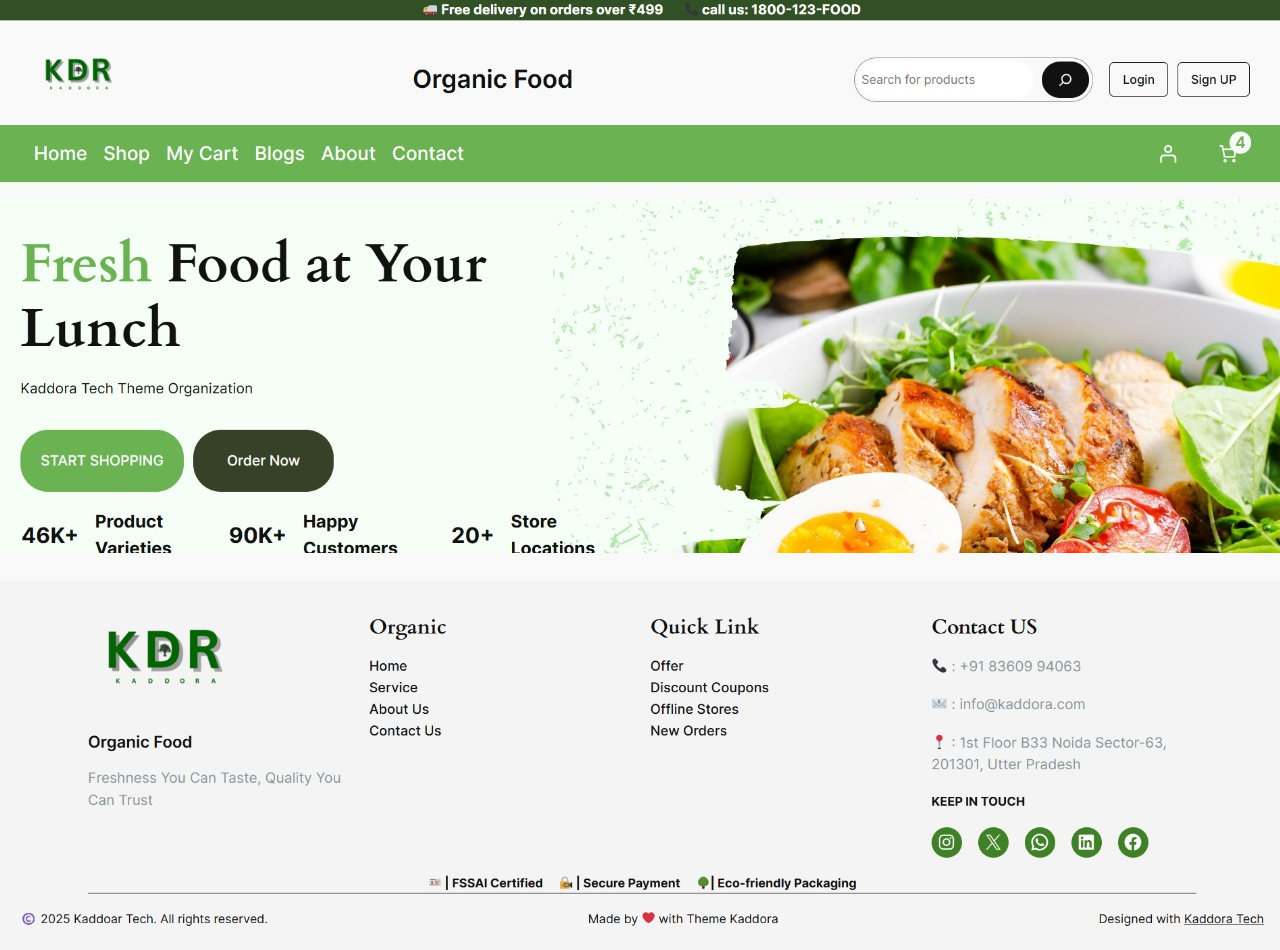
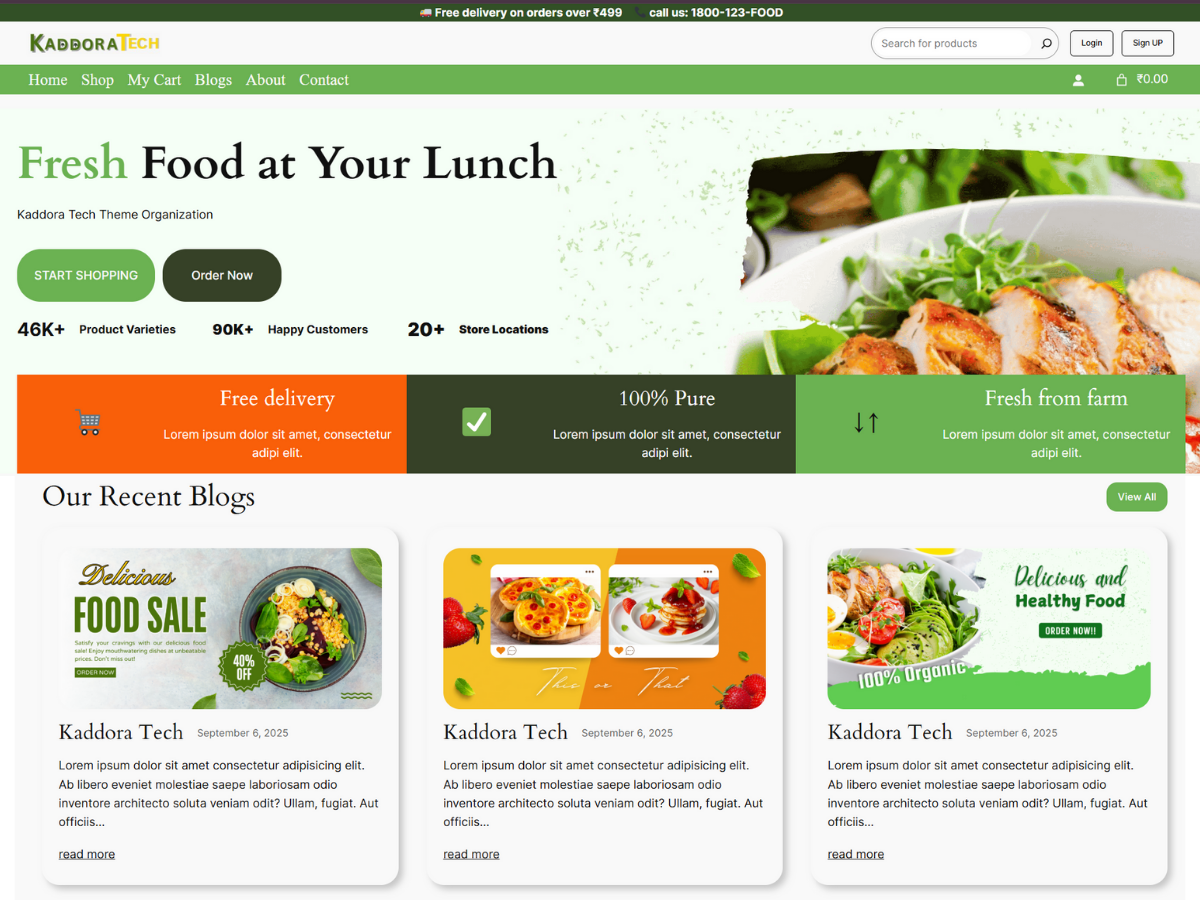
add custom page and improve header

diff --git a/assets/css/button-style.css b/assets/css/button-style.css
@@ -11,3 +11,79 @@
   width: 20px; /* adjust size */
   height: 20px;
 }
+
+/* Reduce search bar height */
+.wp-block-search__input {
+  height: 35px;
+  padding: 4px 10px;
+  font-size: 14px;
+  line-height: 1.2;
+  transition: all 0.3s ease;
+}
+
+/* Input hover/focus effect – green glow */
+.wp-block-search__input:hover,
+.wp-block-search__input:focus {
+  background-color: #f5f5f5;   /* light grey background */
+  outline: none;
+  box-shadow: 0 0 6px 2px #28a745; /* green glow */
+  border-color: #28a745;          /* green border */
+}
+
+/* Reduce height of the search button */
+.wp-block-search__button {
+  height: 35px;
+  padding: 4px 12px;
+  font-size: 14px;
+  background-color: #0073aa;
+  color: #fff;
+  border: none;
+  transition: all 0.3s ease;
+  cursor: pointer;
+}
+
+/* Button hover effect – green glow */
+.wp-block-search__button:hover {
+  background-color: #0073aa; /* keep same base */
+  color: #fff;
+  box-shadow: 0 0 6px 2px #28a745; /* green glow on hover */
+  transform: translateY(-2px);     /* slight lift effect */
+}
+
+
+
+
+/* Reset link styles inside navigation */
+.wp-block-navigation a {
+  color: #ffffff;              /* keep white text */
+  text-decoration: none;       /* remove underline by default */
+  outline: none;               /* remove browser focus outline */
+  box-shadow: none;            /* remove any box highlight */
+  transition: color 0.3s ease, text-decoration-color 0.3s ease;
+}
+
+/* Remove default :focus/active box */
+.wp-block-navigation a:focus,
+.wp-block-navigation a:active {
+  outline: none;
+  box-shadow: none;
+}
+
+/* Add pink underline on hover */
+.wp-block-navigation a:hover {
+  text-decoration: underline;         /* show underline */
+  text-decoration-color: #FFD700;     /* pink color for underline */
+  color: #ffffff;                     /* keep text white on hover */
+  text-underline-offset: 6px;
+  text-decoration-thickness: 5px;
+}
+
+/* Active / current menu item style */
+.wp-block-navigation .current-menu-item > a,
+.wp-block-navigation .wp-block-navigation-item__current-menu-item > a {
+  color: #FFD700; /* change text to yellow */
+  text-decoration: underline; /* show underline */
+  text-decoration-color: #FFD700;
+  text-underline-offset: 6px;
+  text-decoration-thickness: 5px;
+}

diff --git a/style.css b/style.css
@@ -1,10 +1,10 @@
 /*
-Theme Name: Kaddora Organic Block Theme
+Theme Name: Kaddora FarmFresh – Organic Food & WooCommerce WordPress Theme
 Theme URI: https://organic.kaddora.com/
 Author: Kaddora Tech
 Author URI: https://kaddora.com/
-Description: Kaddora Organic Block Theme is a clean, modern, and fully responsive WordPress block theme designed for organic shops, grocery stores, eco-friendly brands, and food-related businesses. Built entirely for Full Site Editing (FSE) with Gutenberg, it lets you visually customize headers, footers, templates, and patterns without writing code. The theme integrates seamlessly with WooCommerce for product listings and uses minimal, fast-loading code with accessible color contrast and typography. Perfect for showcasing products, blogging about healthy living, and building an online shop with ease.
-Version: 3.0
+Description: Kaddora FarmFresh – Organic Food & WooCommerce WordPress Theme is a clean, modern, and fully responsive WordPress block theme designed for organic shops, grocery stores, eco-friendly brands, and food-related businesses. Built entirely for Full Site Editing (FSE) with Gutenberg, it lets you visually customize headers, footers, templates, and patterns without writing code. The theme integrates seamlessly with WooCommerce for product listings and uses minimal, fast-loading code with accessible color contrast and typography. Perfect for showcasing products, blogging about healthy living, and building an online shop with ease.
+Version: 1.8.5
 Requires at least: 6.0
 Tested up to: 6.8
 Requires PHP: 7.4

diff --git a/patterns/header.php b/patterns/header.php
@@ -5,7 +5,7 @@
  * Categories: header
  */
 ?>
-<!-- wp:group {"className":"kaddora-header","layout":{"type":"default"}} -->
+<!-- wp:group {"className":"kaddora-header","style":{"spacing":{"blockGap":"0.5rem"}},"layout":{"type":"default"}} -->
 <div class="wp-block-group kaddora-header"><!-- wp:group {"className":"top-bar","style":{"spacing":{"blockGap":"var:preset|spacing|10","margin":{"top":"0","bottom":"0"}},"color":{"background":"#325026"},"elements":{"link":{"color":{"text":"var:preset|color|base-2"}}},"typography":{"fontSize":"1rem"}},"textColor":"base-2","layout":{"type":"flex","orientation":"horizontal","justifyContent":"center","flexWrap":"wrap"}} -->
 <div id="top-bar" class="wp-block-group top-bar has-base-2-color has-text-color has-background has-link-color" style="background-color:#325026;margin-top:0;margin-bottom:0;font-size:1rem"><!-- wp:paragraph {"align":"center","style":{"layout":{"selfStretch":"fit"}}} -->
 <p class="has-text-align-center"><strong>🚚 Free delivery on orders over ₹499</strong></p>
@@ -18,30 +18,26 @@
 
 <!-- wp:group {"className":"header-main","style":{"spacing":{"padding":{"top":"0","left":"var:preset|spacing|30","right":"var:preset|spacing|30"}}},"layout":{"type":"flex","flexWrap":"wrap","justifyContent":"space-between","orientation":"horizontal"}} -->
 <div class="wp-block-group header-main" style="padding-top:0;padding-right:var(--wp--preset--spacing--30);padding-left:var(--wp--preset--spacing--30)"><!-- wp:group {"className":"site-identity","layout":{"type":"flex","flexWrap":"nowrap","justifyContent":"center"}} -->
-<div class="wp-block-group site-identity"><!-- wp:site-logo {"width":68} /-->
-
-<!-- wp:heading {"textAlign":"center","style":{"color":{"text":"#417c29"},"elements":{"link":{"color":{"text":"#417c29"}}}}} -->
-<h2 class="wp-block-heading has-text-align-center has-text-color has-link-color" style="color:#417c29"><strong>Kaddora TecH</strong></h2>
-<!-- /wp:heading --></div>
+<div class="wp-block-group site-identity"><!-- wp:site-logo {"width":185} /--></div>
 <!-- /wp:group -->
 
-<!-- wp:group {"className":"search-actions","layout":{"type":"flex","flexWrap":"wrap","justifyContent":"center"}} -->
-<div class="wp-block-group search-actions"><!-- wp:search {"label":"Search","showLabel":false,"placeholder":"Search for products","width":100,"widthUnit":"%","buttonText":"Search","buttonPosition":"button-inside","buttonUseIcon":true,"style":{"border":{"radius":"25px"}}} /-->
+<!-- wp:group {"className":"search-actions","style":{"dimensions":{"minHeight":""},"spacing":{"padding":{"top":"0","bottom":"0"},"margin":{"top":"0","bottom":"0"},"blockGap":"var:preset|spacing|10"}},"fontSize":"medium","layout":{"type":"flex","flexWrap":"wrap","justifyContent":"center"}} -->
+<div class="wp-block-group search-actions has-medium-font-size" style="margin-top:0;margin-bottom:0;padding-top:0;padding-bottom:0"><!-- wp:search {"label":"Search","showLabel":false,"placeholder":"Search for products","width":100,"widthUnit":"%","buttonText":"Search","buttonPosition":"button-inside","buttonUseIcon":true,"style":{"border":{"radius":"25px"},"typography":{"fontSize":"0.9rem"},"layout":{"selfStretch":"fit","flexSize":null}}} /-->
 
-<!-- wp:buttons {"layout":{"type":"flex","orientation":"horizontal","justifyContent":"left"}} -->
-<div class="wp-block-buttons"><!-- wp:button {"textAlign":"center","className":"is-style-outline"} -->
-<div class="wp-block-button is-style-outline"><a class="wp-block-button__link has-text-align-center wp-element-button">Login</a></div>
+<!-- wp:buttons {"style":{"typography":{"fontSize":"0.5rem"}},"layout":{"type":"flex","orientation":"horizontal","justifyContent":"left"}} -->
+<div class="wp-block-buttons has-custom-font-size" style="font-size:0.5rem"><!-- wp:button {"textAlign":"center","className":"is-style-outline","style":{"typography":{"fontSize":"0.7rem"}}} -->
+<div class="wp-block-button is-style-outline"><a class="wp-block-button__link has-text-align-center has-custom-font-size wp-element-button" style="font-size:0.7rem">Login</a></div>
 <!-- /wp:button -->
 
-<!-- wp:button {"className":"is-style-outline"} -->
-<div class="wp-block-button is-style-outline"><a class="wp-block-button__link wp-element-button">Sign UP</a></div>
+<!-- wp:button {"className":"is-style-outline","style":{"typography":{"fontSize":"0.7rem"}}} -->
+<div class="wp-block-button is-style-outline"><a class="wp-block-button__link has-custom-font-size wp-element-button" style="font-size:0.7rem">Sign UP</a></div>
 <!-- /wp:button --></div>
 <!-- /wp:buttons --></div>
 <!-- /wp:group --></div>
 <!-- /wp:group -->
 
 <!-- wp:group {"className":"header-nav has-link-color","style":{"color":{"background":"#6bb252"},"spacing":{"padding":{"top":"0rem","bottom":"0rem","left":"var:preset|spacing|30","right":"var:preset|spacing|30"}}},"textColor":"base","fontSize":"large","layout":{"type":"flex","flexWrap":"wrap","justifyContent":"space-between"}} -->
-<div id="site-navigation" class="wp-block-group header-nav has-link-color has-base-color has-text-color has-background has-large-font-size" style="background-color:#6bb252;padding-top:0rem;padding-right:var(--wp--preset--spacing--30);padding-bottom:0rem;padding-left:var(--wp--preset--spacing--30)"><!-- wp:navigation {"metadata":{"ignoredHookedBlocks":["woocommerce/customer-account"]},"style":{"typography":{"fontSize":"1.4rem"}},"fontFamily":"system-sans-serif","layout":{"type":"flex","orientation":"horizontal","justifyContent":"space-between"}} -->
+<div id="site-navigation" class="wp-block-group header-nav has-link-color has-base-color has-text-color has-background has-large-font-size" style="background-color:#6bb252;padding-top:0rem;padding-right:var(--wp--preset--spacing--30);padding-bottom:0rem;padding-left:var(--wp--preset--spacing--30)"><!-- wp:navigation {"metadata":{"ignoredHookedBlocks":["woocommerce/customer-account"]},"style":{"typography":{"fontSize":"1.4rem"}},"fontFamily":"system-serif","layout":{"type":"flex","orientation":"horizontal","justifyContent":"space-between"}} -->
 <!-- wp:navigation-link {"label":"Home","url":"/"} /-->
 
 <!-- wp:navigation-link {"label":"Shop","url":"/shop"} /-->
@@ -56,9 +52,9 @@
 <!-- /wp:navigation -->
 
 <!-- wp:group {"style":{"typography":{"fontSize":"1.3rem"},"spacing":{"padding":{"top":"0rem","bottom":"0rem"}}},"layout":{"type":"flex","flexWrap":"nowrap","orientation":"horizontal"}} -->
-<div class="wp-block-group" style="padding-top:0rem;padding-bottom:0rem;font-size:1.3rem"><!-- wp:woocommerce/customer-account {"displayStyle":"icon_only","iconStyle":"alt","iconClass":"wc-block-customer-account__account-icon","fontSize":"large"} /-->
+<div class="wp-block-group" style="padding-top:0rem;padding-bottom:0rem;font-size:1.3rem"><!-- wp:woocommerce/customer-account {"displayStyle":"icon_only","iconClass":"wc-block-customer-account__account-icon","fontSize":"medium"} /-->
 
-<!-- wp:woocommerce/mini-cart {"miniCartIcon":"bag-alt","hasHiddenPrice":false,"productCountVisibility":"always"} /--></div>
+<!-- wp:woocommerce/mini-cart {"miniCartIcon":"bag-alt","hasHiddenPrice":false,"productCountVisibility":"always","fontSize":"medium"} /--></div>
 <!-- /wp:group --></div>
 <!-- /wp:group --></div>
 <!-- /wp:group -->

diff --git a/functions.php b/functions.php
@@ -161,13 +161,13 @@ add_action('init', 'kaddora_pattern_categories');
 function kaddora_enqueue_styles()
 {
 	wp_enqueue_style(
-		'kaddora-custom-css',
+		'kaddora-woocommerce-css',
 		get_stylesheet_directory_uri() . '/assets/css/woocommerce.css',
 		array(),
 		wp_get_theme()->get('Version')
 	);
 	wp_enqueue_style(
-		'kaddora-custom-css',
+		'kaddora-button-css',
 		get_stylesheet_directory_uri() . '/assets/css/button-style.css',
 		array(),
 		wp_get_theme()->get('Version')
